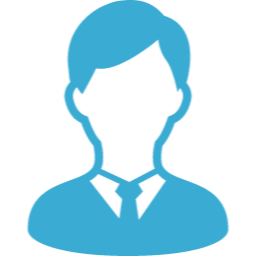
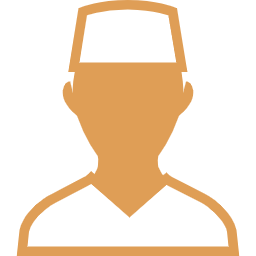
Modify seeds
seedsの修正とアイコン・部屋画像を追加

diff --git a/db/seeds.rb b/db/seeds.rb
@@ -7,14 +7,14 @@ user = User.create!(user_name: 'test0',
                     confirmation_sent_at: Time.zone.now,
                     admin: false)
 
-user.avatar = open("#{Rails.root}/db/fixtures/avatar1.png")
+user.avatar = open("#{Rails.root}/db/fixtures/avatar.png")
 user.save
 
 user.build_profile
 user.save
 
 # その他のユーザ
-30.times do |n|
+15.times do |n|
   user_name = "test#{n + 1}"
   email = "test#{n + 1}@mail.com"
   password = 'password'
@@ -28,7 +28,7 @@ user.save
                             confirmation_sent_at: Time.zone.now,
                             admin: admin)
 
-  other_users.avatar = open("#{Rails.root}/db/fixtures/avatar2.png")
+  other_users.avatar = open("#{Rails.root}/db/fixtures/avatar#{n}.png")
   other_users.build_profile
   other_users.save
 end
@@ -49,7 +49,7 @@ admin_user.avatar = open("#{Rails.root}/db/fixtures/avatar3.png")
 admin_user.save
 
 # 投稿
-users = User.order(:created_at).take(6)
+users = User.order(:created_at).take(15)
 0.upto(5) do |n|
   image = open("#{Rails.root}/db/fixtures/room1.png")
   caption = 'これが私の部屋です。ポスターがお気に入りです。'
@@ -102,8 +102,48 @@ end
 
 26.upto(30) do |n|
   image = open("#{Rails.root}/db/fixtures/room6.png")
-  caption = 'これが私の部屋です。証明がお気に入りです。'
+  caption = 'これが私の部屋です。照明がお気に入りです。'
   users[5].posts.create!(
+    image: image,
+    caption: caption,
+    created_at: Faker::Time.between(from: DateTime.now - 1, to: DateTime.now)
+    )
+end
+
+31.upto(35) do |n|
+  image = open("#{Rails.root}/db/fixtures/room7.png")
+  caption = 'これが私の部屋です。観葉植物がお気に入りです。'
+  users[6].posts.create!(
+    image: image,
+    caption: caption,
+    created_at: Faker::Time.between(from: DateTime.now - 1, to: DateTime.now)
+    )
+end
+
+36.upto(40) do |n|
+  image = open("#{Rails.root}/db/fixtures/room8.png")
+  caption = 'これが私の部屋です。ベッドがお気に入りです。'
+  users[7].posts.create!(
+    image: image,
+    caption: caption,
+    created_at: Faker::Time.between(from: DateTime.now - 1, to: DateTime.now)
+    )
+end
+
+41.upto(45) do |n|
+  image = open("#{Rails.root}/db/fixtures/room9.png")
+  caption = 'これが私の部屋です。コタツがお気に入りです。'
+  users[8].posts.create!(
+    image: image,
+    caption: caption,
+    created_at: Faker::Time.between(from: DateTime.now - 1, to: DateTime.now)
+    )
+end
+
+46.upto(50) do |n|
+  image = open("#{Rails.root}/db/fixtures/room10.png")
+  caption = 'これが私の部屋です。棚がお気に入りです。'
+  users[9].posts.create!(
     image: image,
     caption: caption,
     created_at: Faker::Time.between(from: DateTime.now - 1, to: DateTime.now)
